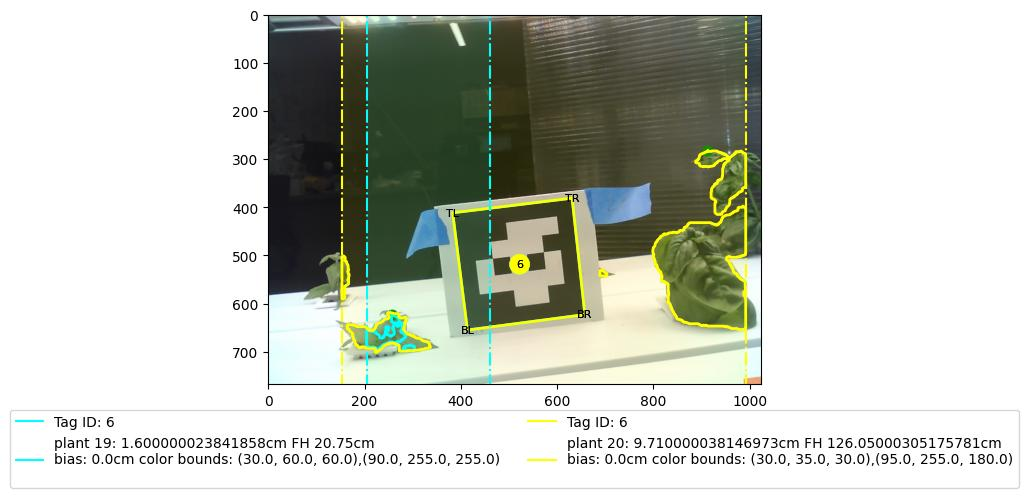
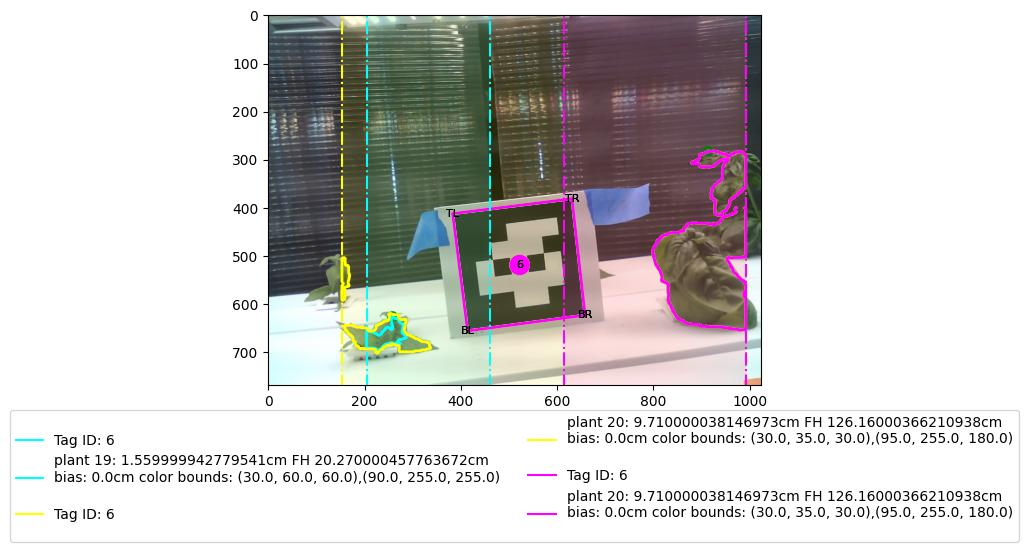
Added more plants, fixed the local database to mathc the test database, and added functions to autp-update height and width view when view is updated

Changed region(s): [[0.0, 0.0, 0.9961, 0.994], [0.2179, 0.6024, 0.249, 0.6627]]

diff --git a/plant_requests/requestor/requestor.py b/plant_requests/requestor/requestor.py
@@ -19,7 +19,7 @@ import numpy as np
 conn = database_util.open_connection_to_database()
 
 #To select only the 6 and 7th element, you would use the following code: database_util.get_available_camera_parameters_from_database(conn)[5:7]
-camera_parameter_list = database_util.get_available_camera_parameters_from_database(conn)[5:7]
+camera_parameter_list = database_util.get_available_camera_parameters_from_database(conn)
 
 # HUE - what colors, green is around 60, red is around 0 or 180, blue is around 120
 # SATURATION - how much color vs white, 0 is white, 255 is fully colored
